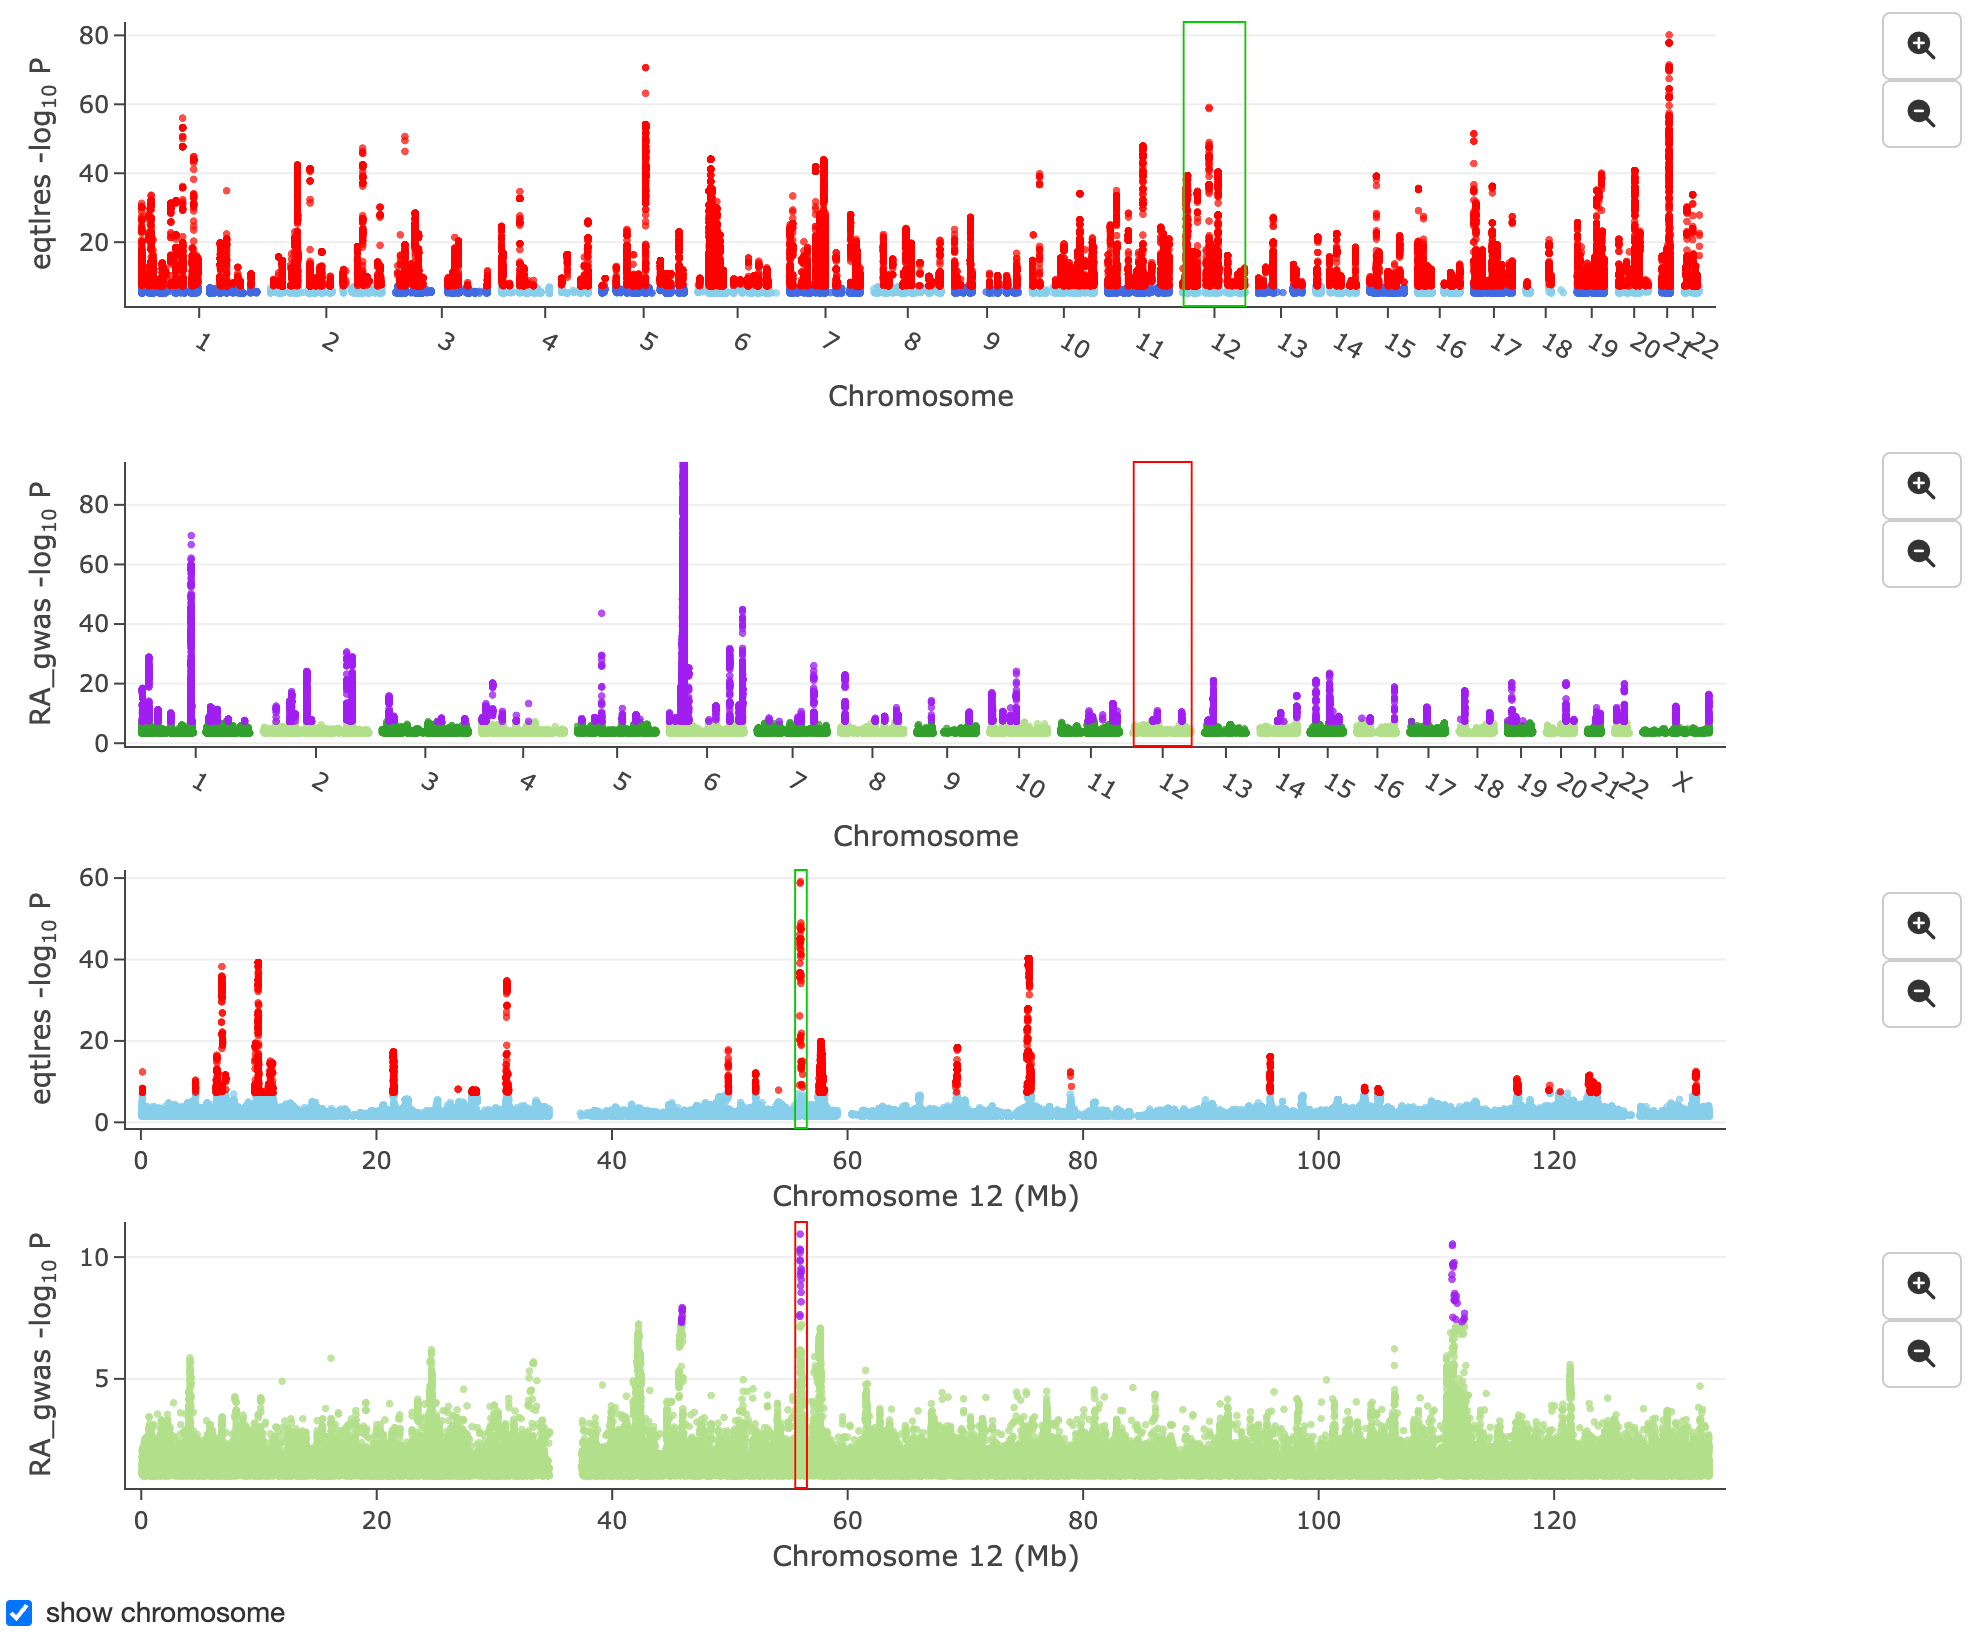
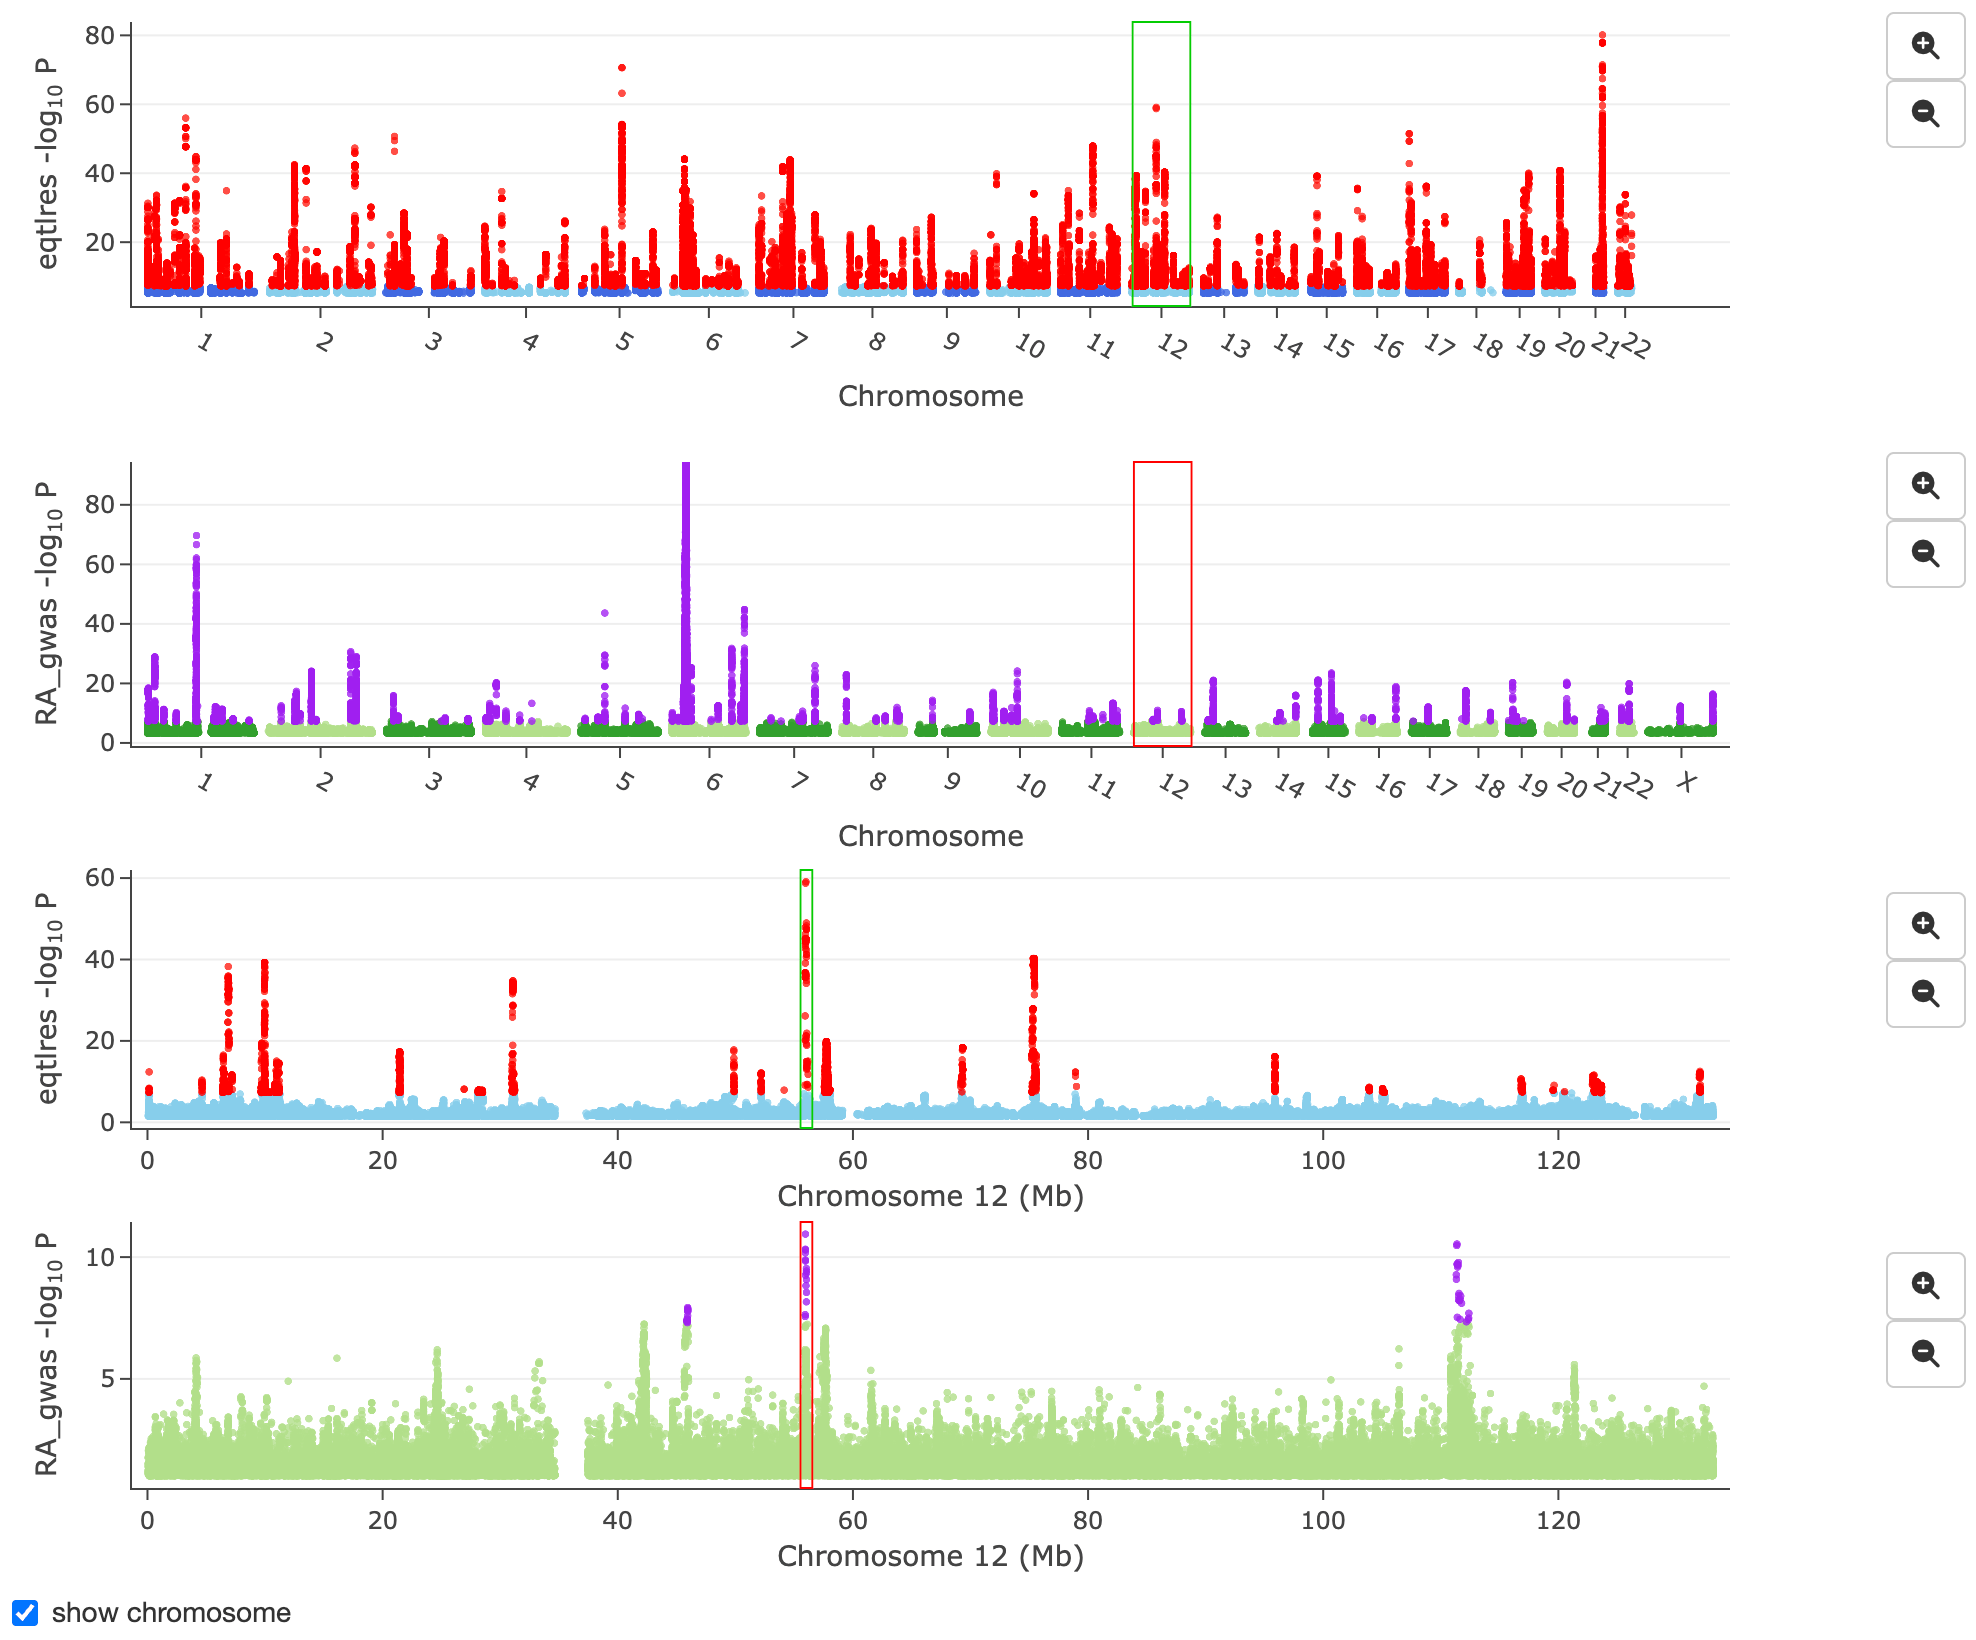
Update vignette

diff --git a/cran-comments.md b/cran-comments.md
@@ -3,7 +3,6 @@
 0 errors | 0 warnings | 0 note
 
 This release includes:
-* Major update with new zoom browser based on shiny/plotly interactive interface
-allowing users to browse whole GWAS data in realtime.
-* Rewrote gene track row packing algorithm in C++ for speed.
-* Bug fixes for edge cases.
+* Major update extending the shiny/plotly zoom browser to browse and compare 2 
+GWAS simultaneously. 
+* Bug fixes.
